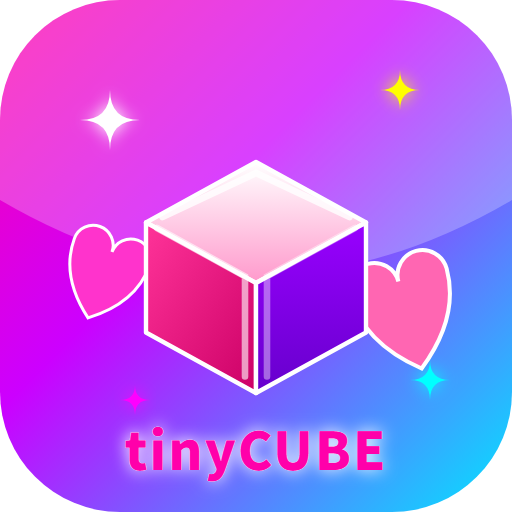
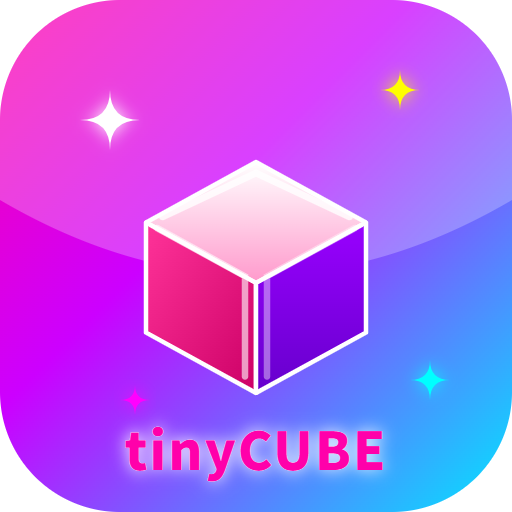
保存の待ち画面／アイコンのハート消し／また来てね（v1.1.8 / code 18）
テスターからの報告（2026-08-16）。

■ 直したもの

**アイコンのハートを消した**（伊波さん「アイコンのハート消し」）
favicon.svg の Hearts 2つを外して icons.mjs で焼き直した。キューブが
主役なので、両脇の飾りがあると目がそちらへ行く。

**最後のページを「また来てね！」に**（伊波さん「最後のページはお疲れ様、
じゃなく、また来てね」）。「おつかれさま」だと終わりの挨拶になる。

**保存の待ち画面を出した**（伊波さん「保存のタイムラグ」）
共有シートが開くまでの数秒、小さな帯に文字が出るだけだった。**動く点**を
画面全体で見せて「止まっていない」と伝える。

  ⚠ 押せなくする画面なので finally で必ず消す。例外で抜けたときに
     出したままだと何も押せなくなる

シート自体は軽くできなかった（896KB、品質を下げると色に差が出る）。
残る待ち時間は Android の共有シートが開くまでで、こちらからは縮められない。

■ 直せなかったもの

**画面のはみだし**（テスター報告、できあがり／保存の画面）
Pixel 9a のサイズ（411x923／下ナビあり875／3ボタン847）を含む7通りで
試したが**手元では再現しなかった**。ボタンは全部押せる位置にある。

推測での手当てだけ入れた：.preview-inner を縦スクロールできるようにして、
決めるボタンを sticky で下に貼り付けた。入りきらない端末でも指が届く。
**これで直ったかは実機の報告待ち。**

Changed region(s): [[0.7188, 0.4688, 0.9062, 0.7188], [0.125, 0.4375, 0.2812, 0.625]]

diff --git a/src/App.tsx b/src/App.tsx
@@ -505,6 +505,10 @@ function App() {
   };
   const [cantClose, setCantClose] = useState(false);
   const [saveMessage, setSaveMessage] = useState<string | null>(null);
+  // しまっている最中か。**画面全体で待ちを見せる**ために持つ。
+  // 小さな帯だけだと、共有シートが開くまでの数秒が「固まった」に見える
+  // （2026-08-16、伊波さん「保存のタイムラグ」）
+  const [saveBusy, setSaveBusy] = useState(false);
   const [loopVideo, setLoopVideo] = useState(true);
   // 買い切りの解除。フレームと透かし消しの両方が一度に解ける
   // （2026-08-11、伊波さん「両方」）
@@ -780,8 +784,16 @@ function App() {
     //    「押しても反応しない」ように見える
     //   （2026-08-15、伊波さん「保存ボタンの反応が少し悪かった」）。
     setSaveMessage('保存の準備をしています…');
+    setSaveBusy(true);
 
-    const r = await saveMedia(blob, name);
+    let r: Awaited<ReturnType<typeof saveMedia>>;
+    try {
+      r = await saveMedia(blob, name);
+    } finally {
+      // ⚠ **必ず消すこと。** 例外で抜けたときに出したままだと、
+      //    画面が覆われて何も押せなくなる
+      setSaveBusy(false);
+    }
 
     if (r.how === 'shared') {
       showShared();          // 保存したかは本人しか知らないので言い切らない
@@ -1445,6 +1457,19 @@ function App() {
               </svg>
             </div>
             <p>{t('upload_hint')}</p>
+          </div>
+        )}
+        {/* しまっているあいだ。共有シートが開くまで数秒かかることがあるので、
+            **動くもの**を出して「止まっていない」と伝える。
+            文字だけだと固まったように見える（2026-08-16、伊波さん
+            「保存のタイムラグ」） */}
+        {saveBusy && (
+          <div className="save-busy">
+            <div className="save-busy-inner">
+              <div className="save-busy-dots"><span /><span /><span /></div>
+              <div className="save-busy-text">しまっています…</div>
+              <div className="save-busy-note">ちょっとまってね</div>
+            </div>
           </div>
         )}
         {camInfo && <div className="cam-info">{camInfo}</div>}
@@ -2431,7 +2456,10 @@ function App() {
       {cantClose && (
         <div className="preview-screen" onClick={() => setCantClose(false)}>
           <div className="preview-inner" onClick={e => e.stopPropagation()} style={{ maxWidth: 380 }}>
-            <div className="preview-head">おつかれさま！</div>
+            {/* 「おつかれさま」だと、そこで終わりの挨拶になる。また遊びに
+                来てほしいので「また来てね」にした（2026-08-16、伊波さん
+                「最後のページはお疲れ様、じゃなく、また来てね」） */}
+            <div className="preview-head">また来てね！</div>
             <p className="sheet-note" style={{ textAlign: 'center', lineHeight: 1.8 }}>
               カメラは止めました。<br />
               このページはブラウザのタブを閉じて終わってください。

diff --git a/src/setup.css b/src/setup.css
@@ -1240,6 +1240,19 @@
 .preview-inner {
   width: 100%; max-width: 460px; max-height: 100%;
   display: flex; flex-direction: column; gap: 10px;
+  /* ⚠ **入りきらないときはここが縦にスクロールする。**
+     機種によってボタンが画面の外に出るという報告があった（2026-08-16、
+     テスターより「画面のはみだし（機種によって）」）。手元では 360x600 まで
+     狭めても再現しなかったが、アプリの下ナビが画面を食う端末では起こりうる。
+     受け皿が無いと、はみ出したボタンに指が届かなくなる */
+  overflow-y: auto;
+  -webkit-overflow-scrolling: touch;
+}
+/* 決めるボタンは、はみ出しても最後まで見えるように下へ貼り付ける */
+.preview-btns {
+  position: sticky; bottom: 0;
+  padding-top: 8px;
+  background: linear-gradient(to top, rgba(6,3,18,0.96) 72%, rgba(6,3,18,0));
 }
 .preview-head {
   text-align: center; font-size: 1.05rem; font-weight: 900; color: #66e7ff;
@@ -1816,3 +1829,30 @@ button:active,
 }
 .album-view-btns { display: flex; gap: 10px; flex: 0 0 auto; }
 .album-view-btns button { flex: 1 1 0; min-height: 50px; }
+
+/* しまっているあいだの待ち画面（2026-08-16、伊波さん「保存のタイムラグ」）。
+   共有シートが開くまでの数秒、文字だけだと固まって見えるので点を動かす。
+   ⚠ **押せなくする画面なので、必ず消えること**（App.tsx 側は finally で消している） */
+.save-busy {
+  position: fixed; inset: 0; z-index: 400;
+  background: rgba(6, 3, 18, 0.86);
+  display: flex; align-items: center; justify-content: center;
+}
+.save-busy-inner { text-align: center; }
+.save-busy-dots { display: flex; gap: 10px; justify-content: center; margin-bottom: 16px; }
+.save-busy-dots span {
+  width: 14px; height: 14px; border-radius: 50%;
+  background: #ff4fa3; display: inline-block;
+  animation: save-bounce 1.05s infinite ease-in-out both;
+}
+.save-busy-dots span:nth-child(1) { animation-delay: -0.28s; }
+.save-busy-dots span:nth-child(2) { animation-delay: -0.14s; }
+@keyframes save-bounce {
+  0%, 70%, 100% { transform: translateY(0); opacity: 0.55; }
+  35%           { transform: translateY(-12px); opacity: 1; }
+}
+.save-busy-text {
+  color: #66e7ff; font-weight: 900; font-size: 1.1rem; letter-spacing: 0.06em;
+  text-shadow: 2px 2px 0 #ff4fa3;
+}
+.save-busy-note { color: #cbd5e1; font-size: 0.85rem; margin-top: 6px; }

diff --git a/public/privacy.html b/public/privacy.html
@@ -121,7 +121,7 @@
     <p>本アプリでは、第三者による広告配信ツールや、ユーザーの行動を追跡するトラッキングツール（アクセス解析ツール等）は使用しておりません。</p>
 
     <h2>4. アプリ内課金について</h2>
-    <p>本アプリの有料機能の購入処理は、各プラットフォーム（Google Play / App Store）の提供する決済システムを通じて安全に行われます。当スタジオがユーザーのクレジットカード情報等を直接取得・保持することはありません。</p>
+    <p>本アプリは完全無料であり、アプリ内課金（有料機能の追加購入やサブスクリプション等）は一切発生しません。すべての機能を無料でお使いいただけます。</p>
 
     <h2>5. お子様のプライバシー（Children's Privacy）</h2>
     <p>本アプリは、不特定多数の個人情報を収集しないため、お子様にも安心してご利用いただけます。13歳未満（または各国の適用法で定められた年齢）のお子様から意図的に個人を特定できる情報を収集することはありません。</p>
